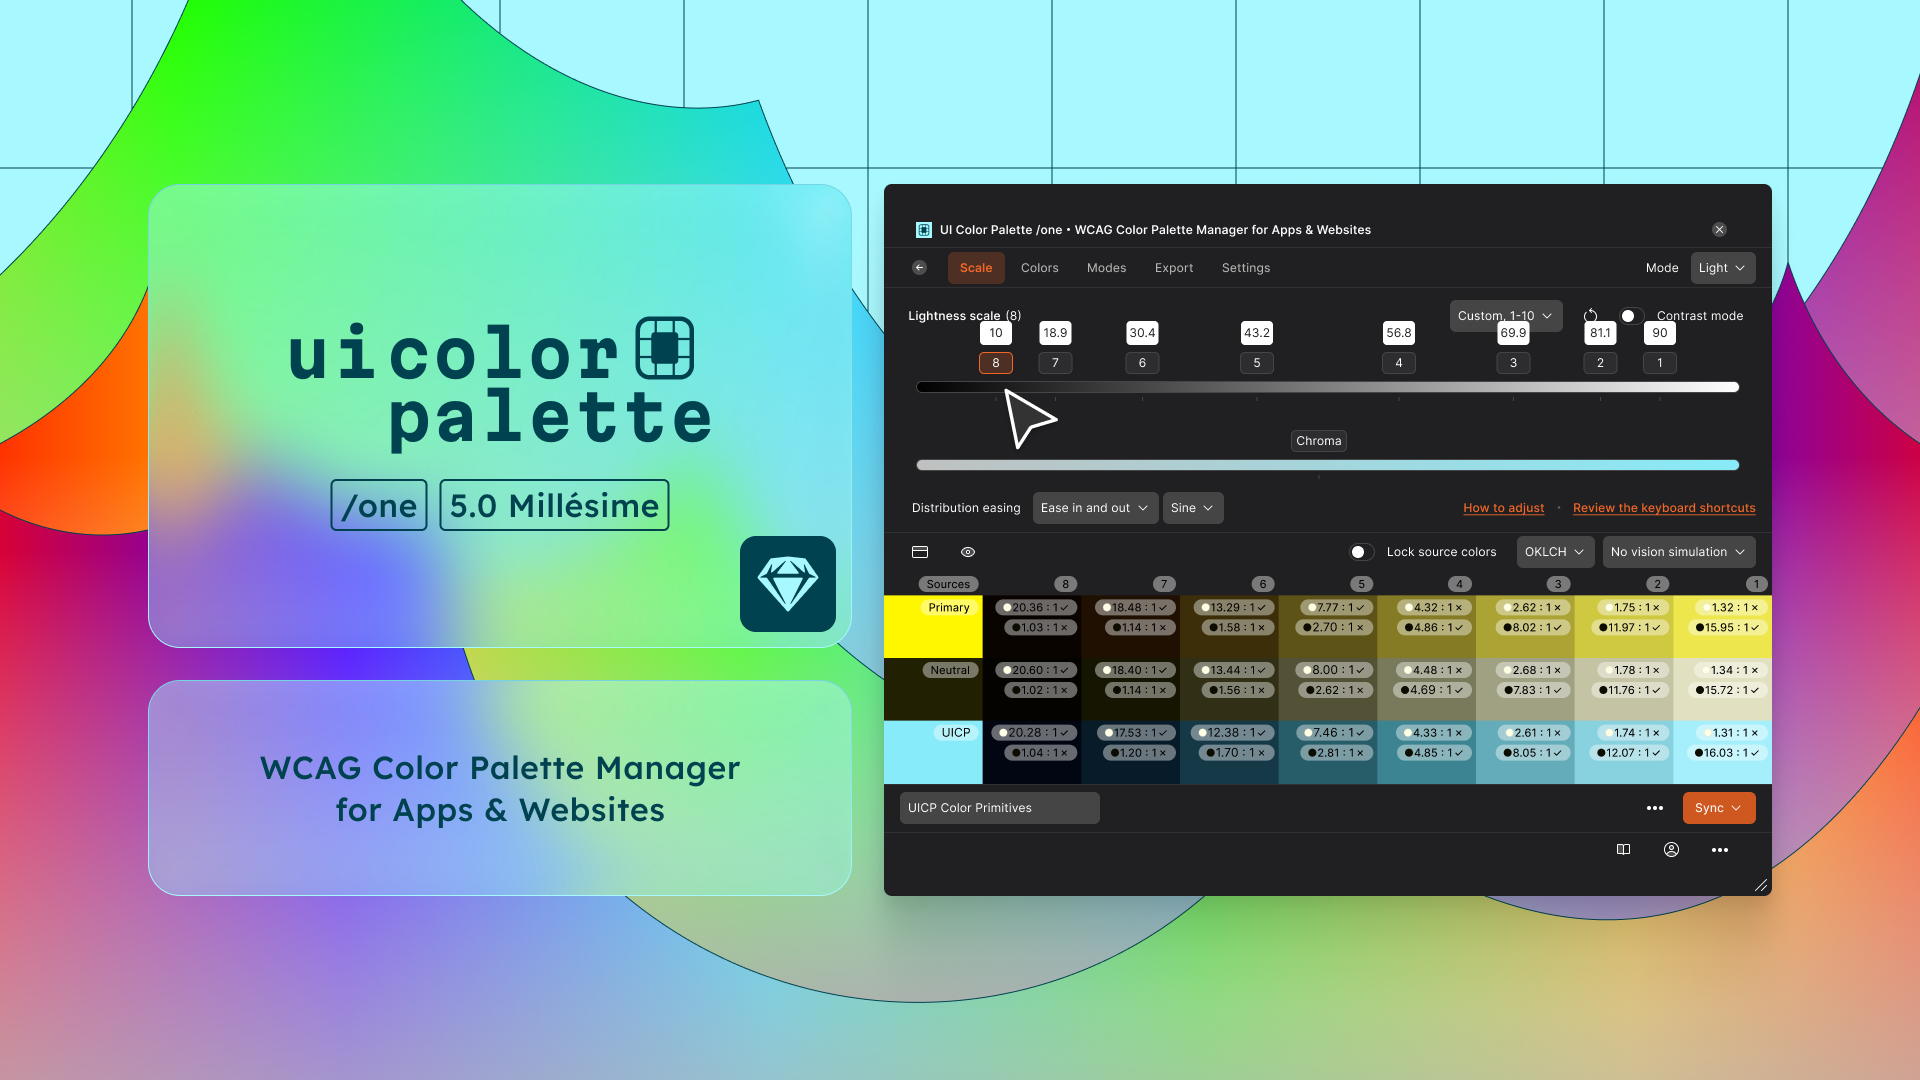
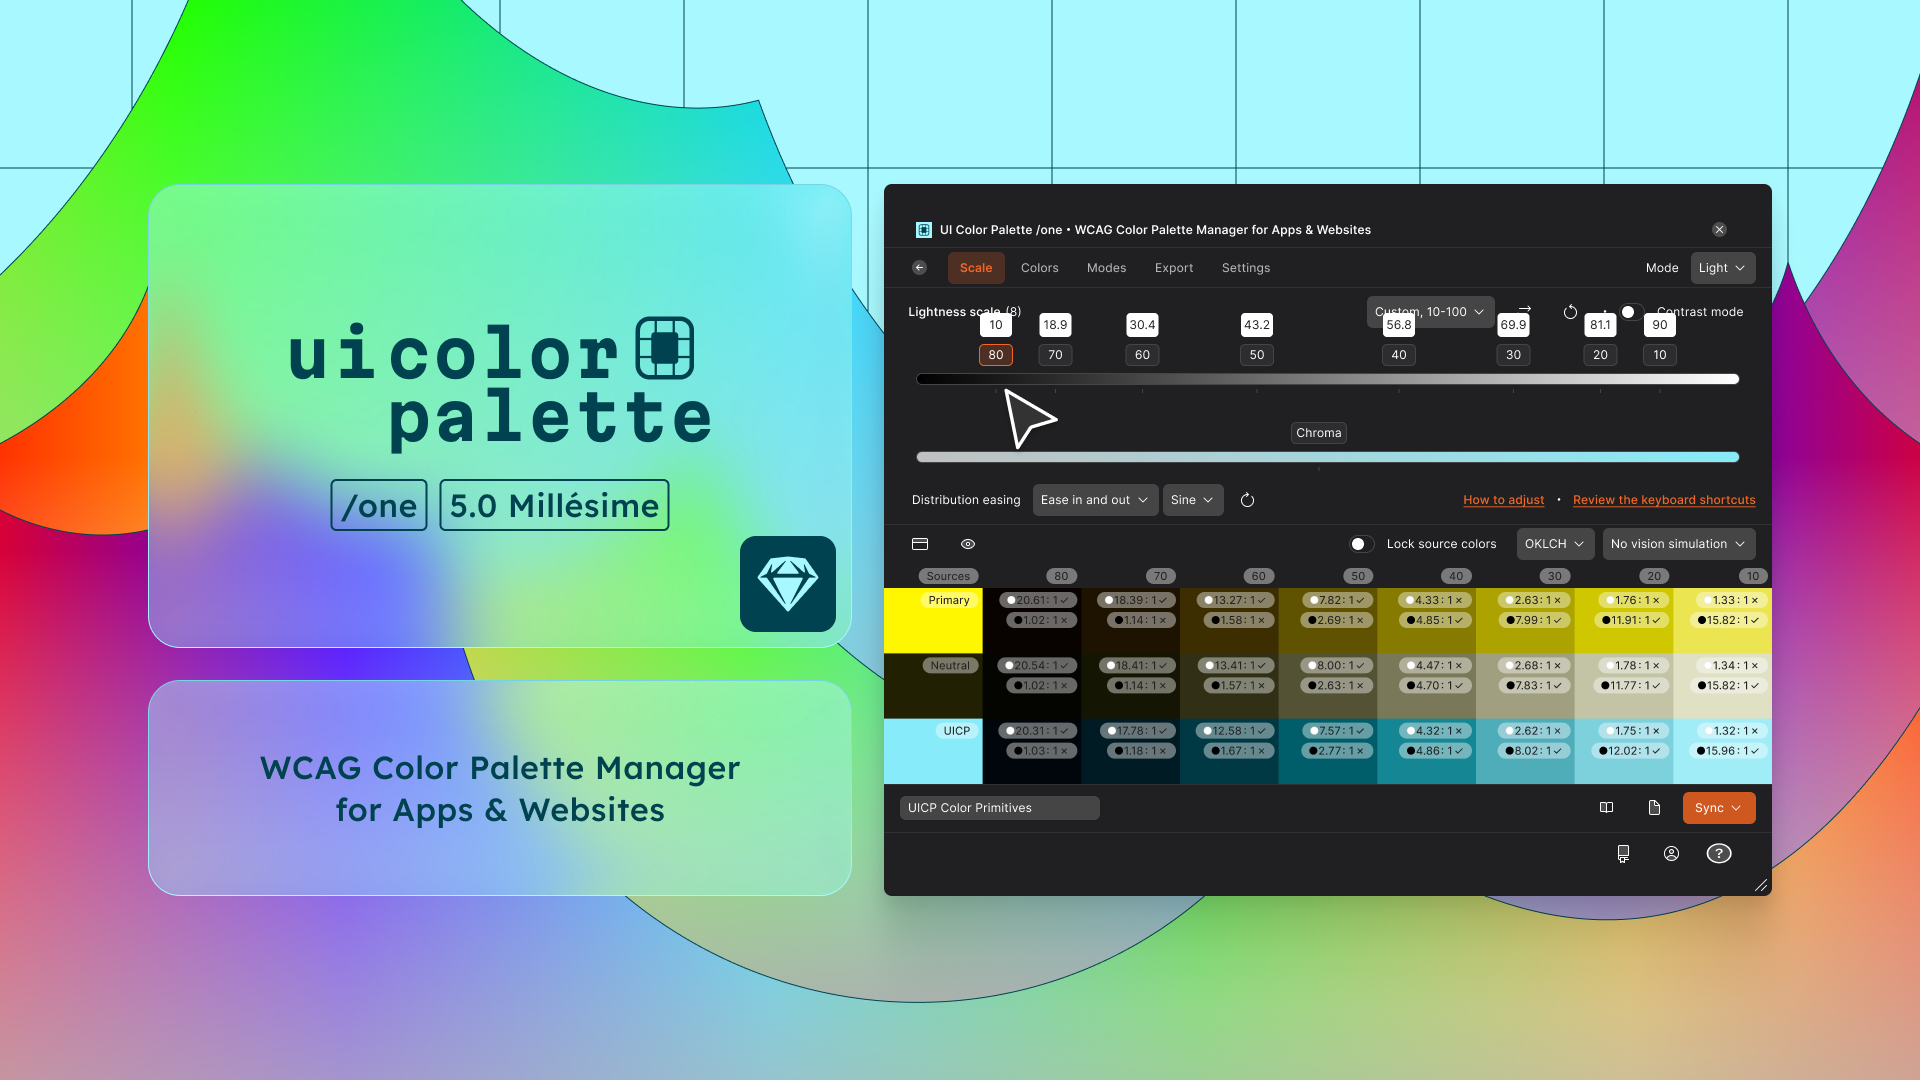
GITBOOK-6: v5.0.4

diff --git a/sketch/README.md b/sketch/README.md
@@ -17,6 +17,10 @@ This plugin will allow you to:
 * Generate code in various languages
 * Publish the palette for reuse across multiple documents or add shared palettes from the community
 
-For a quick start, you can refer to these pages:
+For a quick start, you can refer to this demo:
+
+{% embed url="https://app.supademo.com/demo/cmfgpta8gc8ei39ozrkk60sbq" %}
+
+And these pages:
 
 <table data-view="cards"><thead><tr><th></th><th data-hidden data-card-cover data-type="files"></th><th data-hidden data-card-target data-type="content-ref"></th></tr></thead><tbody><tr><td>How to select source colors</td><td><a href=".gitbook/assets/quick_start-source_colors.png">quick_start-source_colors.png</a></td><td><a href="guides/create-a-color-palette.md#select-and-or-import-the-source-colors">#select-and-or-import-the-source-colors</a></td></tr><tr><td>How to scale colors</td><td><a href=".gitbook/assets/quick_start-color_scaling.png">quick_start-color_scaling.png</a></td><td><a href="guides/create-a-color-palette.md#adjust-the-lightness-scale">#adjust-the-lightness-scale</a></td></tr><tr><td>How to change source colors</td><td><a href=".gitbook/assets/quick_start-change_source_colors.png">quick_start-change_source_colors.png</a></td><td><a href="guides/manage-a-color-palette.md#change-the-source-colors">#change-the-source-colors</a></td></tr><tr><td>How to create styles</td><td><a href=".gitbook/assets/quick_start-change_styles.png">quick_start-change_styles.png</a></td><td><a href="guides/sync-a-color-palette-to-the-local-library.md#sync-to-the-local-styles">#sync-to-the-local-styles</a></td></tr><tr><td>How to create variables</td><td><a href=".gitbook/assets/quick_start-variables.png">quick_start-variables.png</a></td><td><a href="guides/sync-a-color-palette-to-the-local-library.md#sync-to-the-local-variables">#sync-to-the-local-variables</a></td></tr><tr><td>How to generate code</td><td><a href=".gitbook/assets/quick_start-code_gen.png">quick_start-code_gen.png</a></td><td><a href="guides/export-a-color-palette-to-code.md">export-a-color-palette-to-code.md</a></td></tr></tbody></table>

diff --git a/sketch/guides/create-a-color-palette.md b/sketch/guides/create-a-color-palette.md
@@ -20,7 +20,9 @@ You can select and import up to 5 colors on the <mark style="color:yellow;">`/ba
 
 ### Select colors from the document canvas
 
-Select one or more filled layers. You might rename these layers because the palette will use the layer name as a color name.&#x20;
+Select one or more filled layers. You might rename these layers because the palette will use the layer name as a color name.
+
+If no color is selected or imported, a default color is set and can be named and edited.
 
 {% hint style="info" %}
 Only frames, shapes are allowed to be turned into source colors if they have at least a solid color as `Fill`.
@@ -87,6 +89,8 @@ Update a stop by sliding its knob on the range. You can slide every knob by usin
 
 * <kbd>Cmd ⌘</kbd> (macOS) or <kbd>Ctrl ⌃</kbd> (Windows/Linux) while sliding any knob to move each of them in the desired direction
 * <kbd>Shift ⇪</kbd> while sliding the first or the last stop to distribute each of them equally on the range
+* <i class="fa-arrow-right-arrow-left">:arrow-right-arrow-left:</i> button to reverse the stops
+* <i class="fa-arrow-rotate-left">:arrow-rotate-left:</i> button to reset to the default scale
 
 In addition, you can adjust the `Chroma` of every scaled color from 0% (unsaturated) to 200% (oversaturated).
 
@@ -133,6 +137,10 @@ The easings are varied in three ways:
 * `Sine`
 * `Regular`
 * `Cubic`
+
+{% hint style="info" %}
+You can apply the distribution directly on the current scale by clicking the <i class="fa-arrow-rotate-right">:arrow-rotate-right:</i> button.
+{% endhint %}
 {% endstep %}
 
 {% step %}
